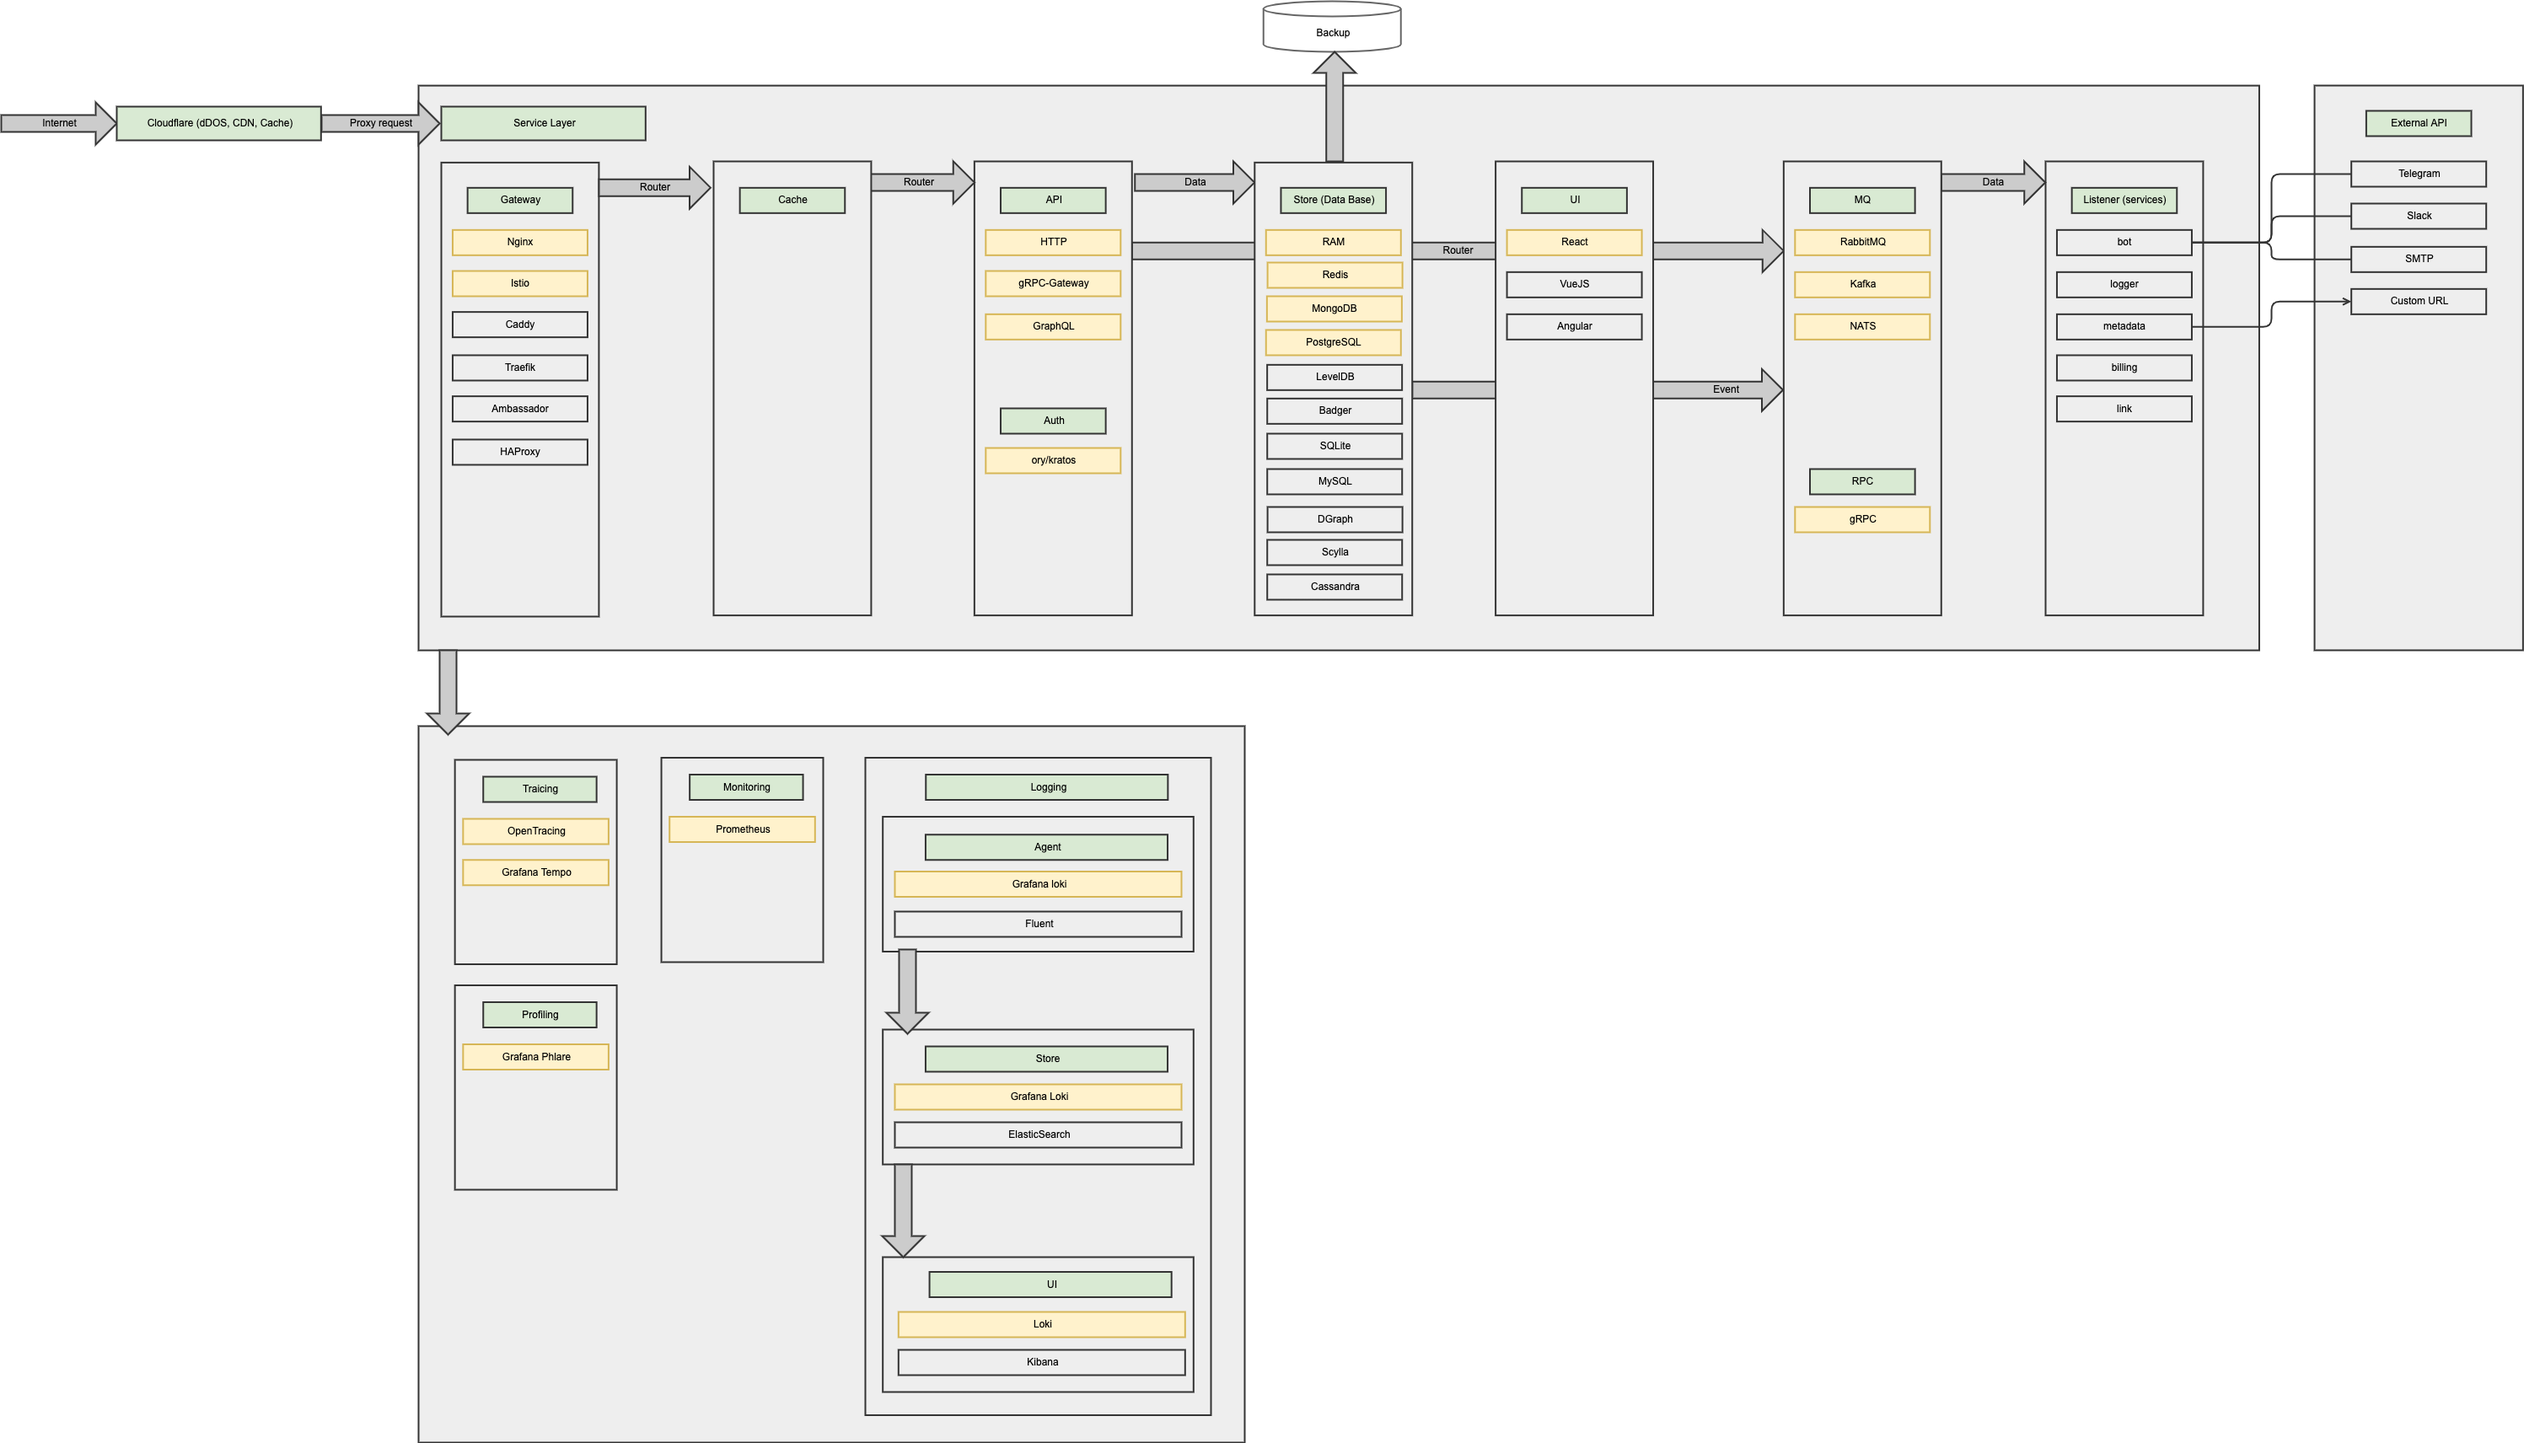
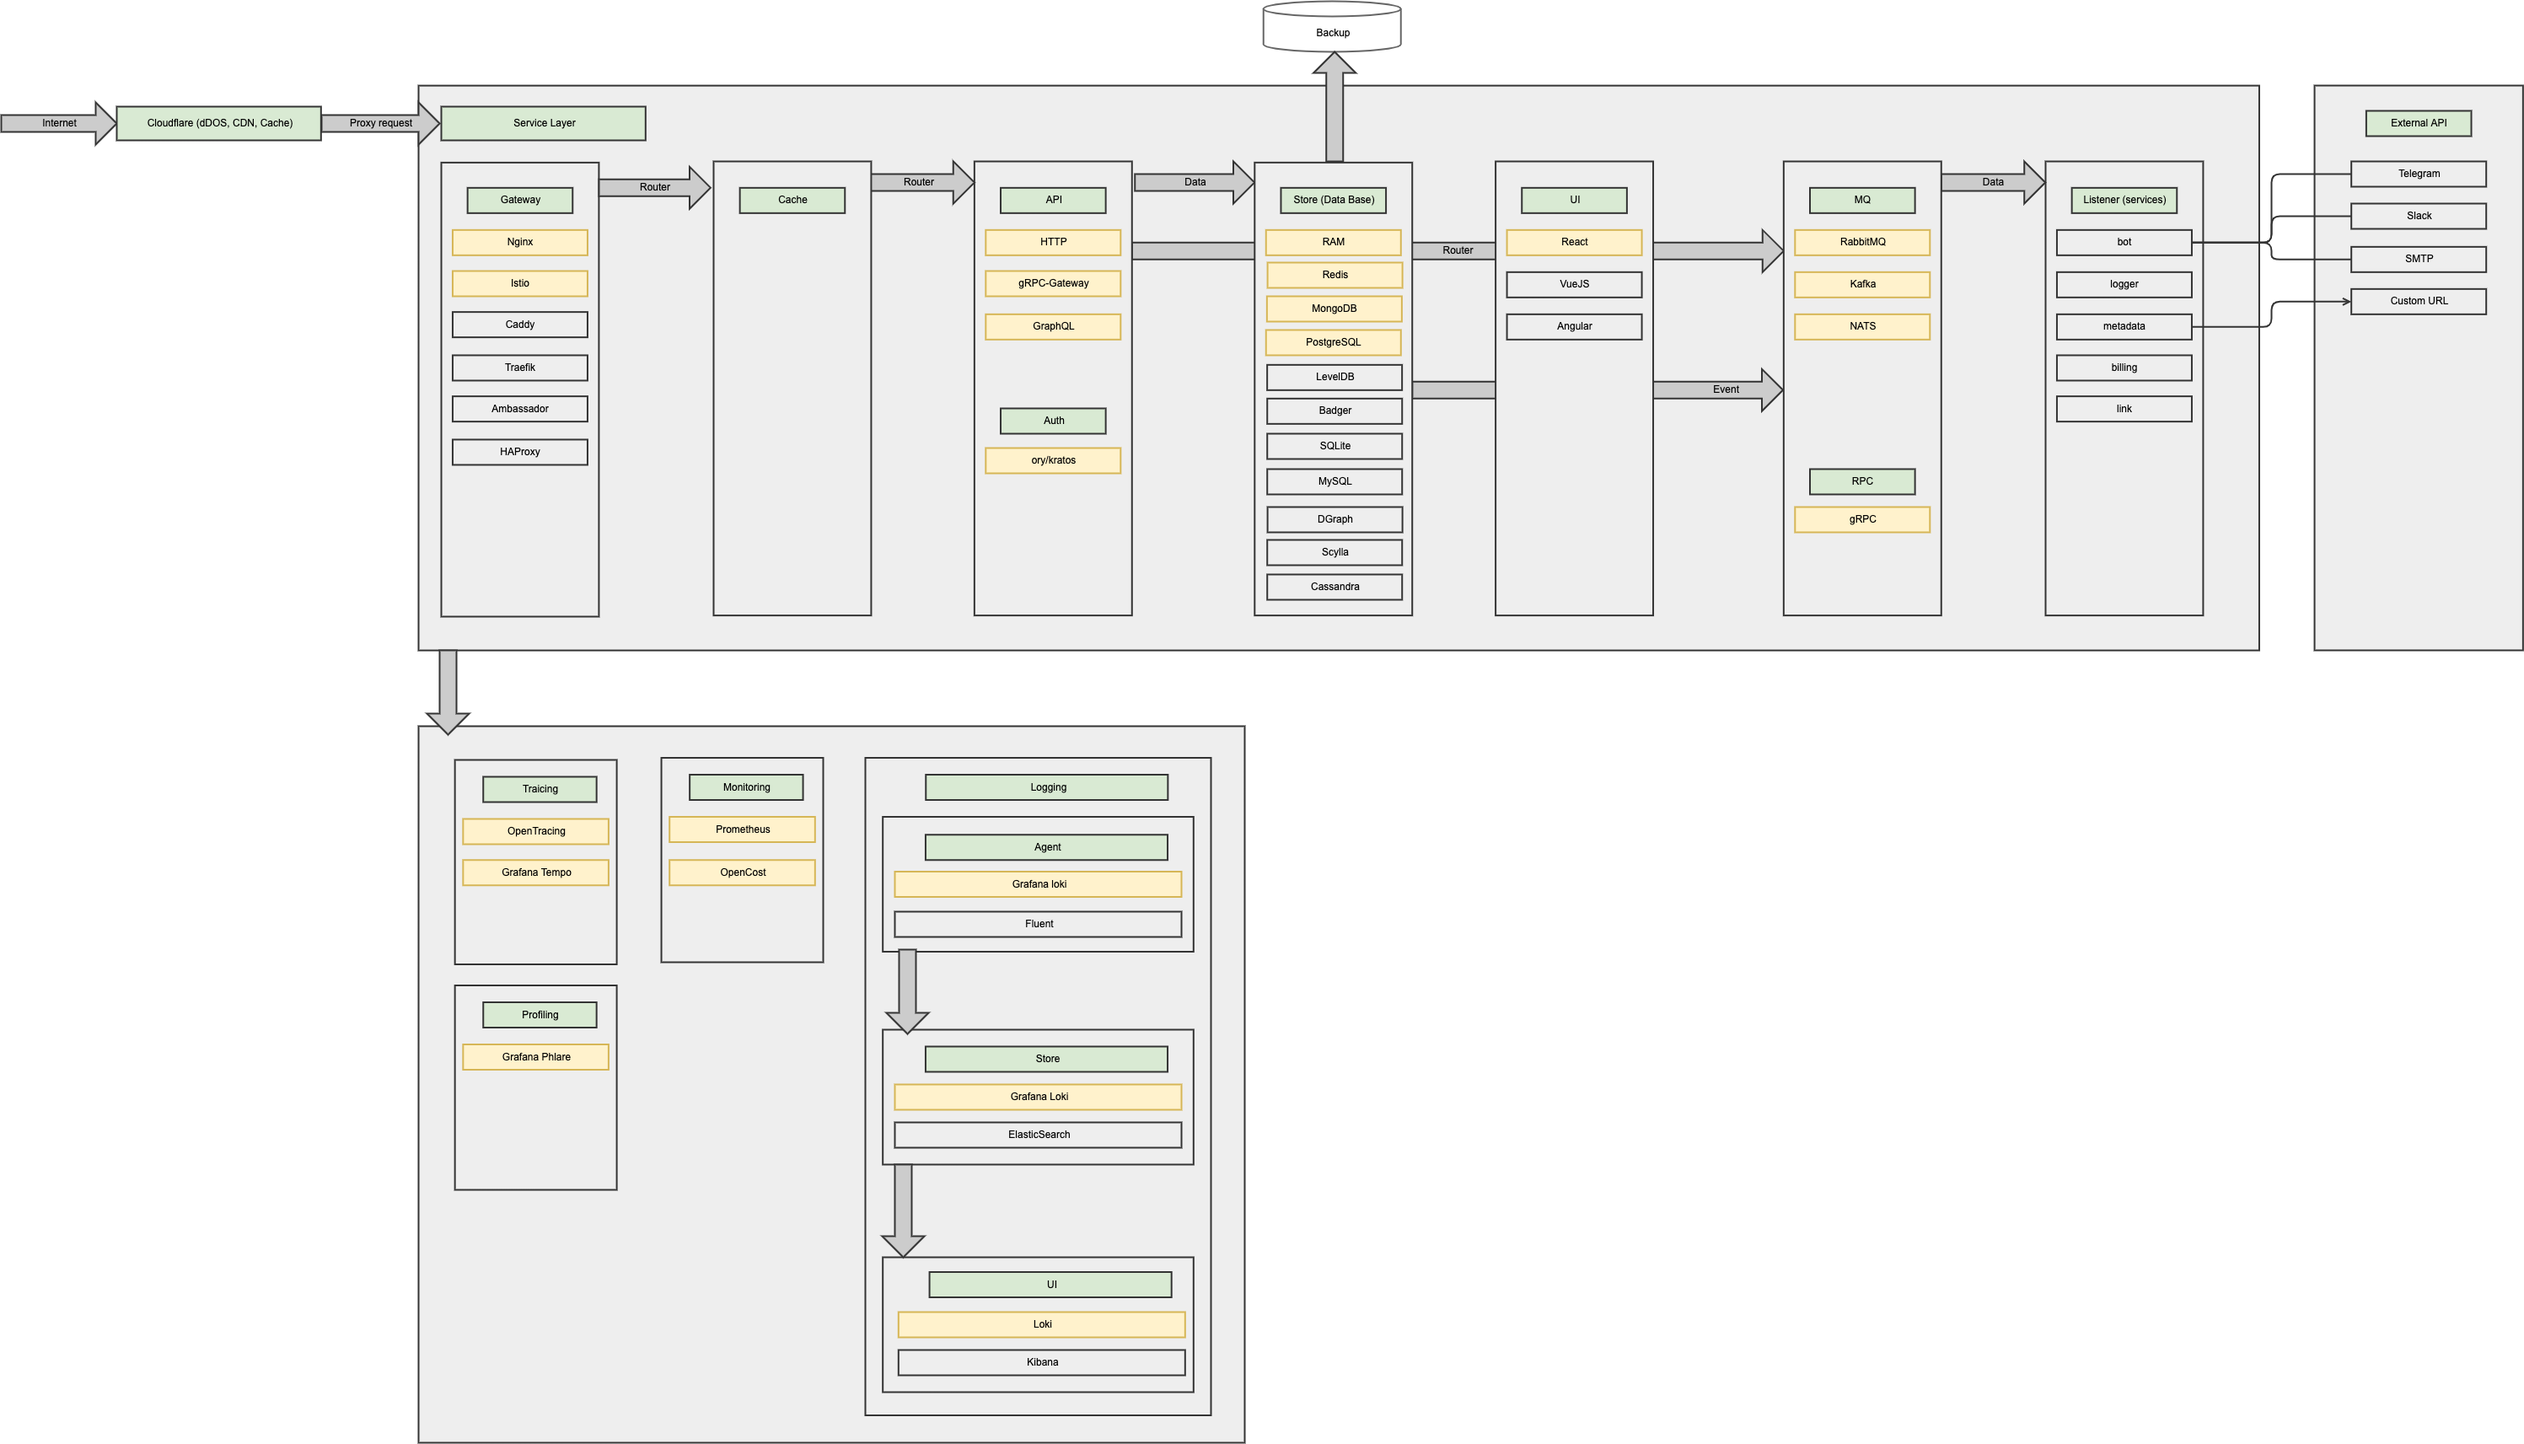
backstage: add opencost

diff --git a/internal/services/backstage/packages/app/src/lib/ShortLinkTechRadar.ts b/internal/services/backstage/packages/app/src/lib/ShortLinkTechRadar.ts
@@ -40,6 +40,38 @@ export class ShortLinkTechRadar implements TechRadarApi {
           description:
             'Excepteur **sint** occaecat *cupidatat* non proident, sunt in culpa qui officia deserunt mollit anim id est laborum.\n\n```ts\nconst x = "3";\n```\n',
         },
+        {
+          url: "#",
+          key: "kubernetes",
+          id: "kubernetes",
+          title: "Kubernetes",
+          quadrant: "platforms",
+          description: "Kubernetes is an open-source system for automating deployment, scaling, and management of containerized applications.",
+          timeline: [
+            {
+              moved: 0,
+              ringId: "adopt",
+              date: new Date("2020-08-06"),
+              description: "Lorem ipsum dolor sit amet, consectetur adipiscing elit, sed do eiusmod tempor incididunt ut labore et dolore magna aliqua"
+            },
+          ]
+        },
+        {
+          title: "GitLab",
+          quadrant: "tools",
+          url: "#",
+          key: "gitlab",
+          id: "gitlab",
+          description: "GitLab is a web-based DevOps lifecycle tool that provides a Git-repository manager providing wiki, issue-tracking and continuous integration and deployment pipeline features, using an open-source license, developed by GitLab Inc.",
+          timeline: [
+            {
+              moved: 0,
+              ringId: "adopt",
+              date: new Date("2020-08-06"),
+              description: "Lorem ipsum dolor sit amet, consectetur adipiscing elit, sed do eiusmod tempor incididunt ut labore et dolore magna aliqua"
+            },
+          ],
+        }
       ],
     };
   }

diff --git a/internal/services/backstage/shortlink-org/components/opencost/docs/README.md b/internal/services/backstage/shortlink-org/components/opencost/docs/README.md
@@ -1,0 +1,20 @@
+# Open source cost monitoring for cloud native environments
+
+OpenCost is a vendor-neutral open source project for measuring and allocating 
+infrastructure and container costs in real time. Built by Kubernetes experts and 
+supported by Kubernetes practitioners, OpenCost shines a light into the black 
+box of Kubernetes spend.
+
+
+### Goal
+
+> OpenCost is a tool or monitoring the cost of Kubernetes. 
+In a world of horizontal pod autoscalers and autoscaling node groups 
+it is important to be able to monitor and perhaps even regulate spend automatically. 
+The obvious possibility of OpenCost is integrating with Prometheus and 
+using Prometheus to create cost alerts. Another possibility 
+I see is integrating OpenCost metrics with custom metrics 
+for horizontal pod autoscalers in Kubernetes as a way to set limits on spend 
+when scaling automatically. The autoscaling/v2 API supports scaling based on 
+multiple metrics. By leveraging custom metrics constraints on scaling can be set 
+based on data from OpenCost.

diff --git a/internal/services/backstage/shortlink-org/components/shortlink-api/docs/README.md b/internal/services/backstage/shortlink-org/components/shortlink-api/docs/README.md
@@ -1,0 +1,1 @@
+# test

diff --git a/internal/services/backstage/shortlink-org/components/shortlink-billing/docs/README.md b/internal/services/backstage/shortlink-org/components/shortlink-billing/docs/README.md
@@ -1,0 +1,1 @@
+# test
